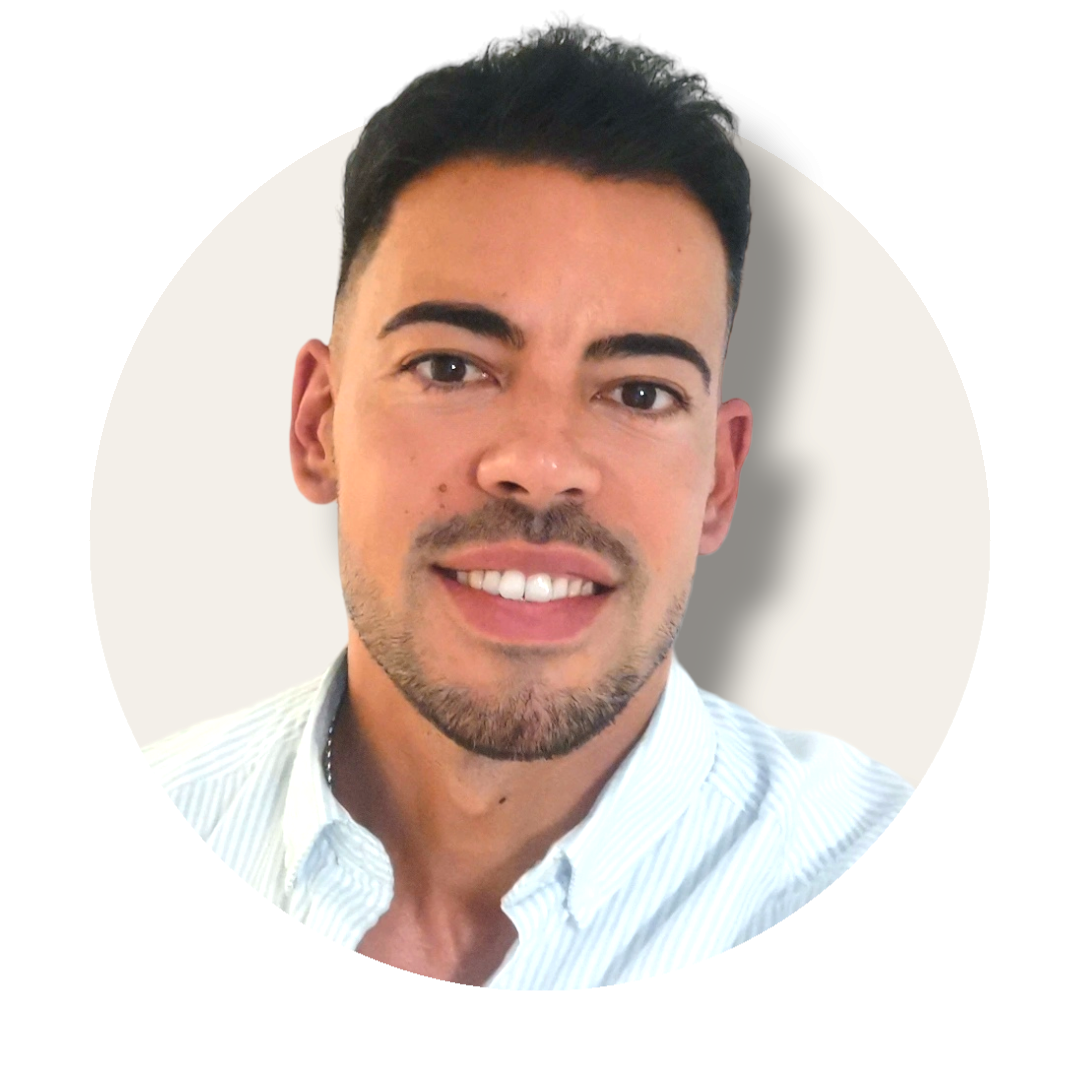
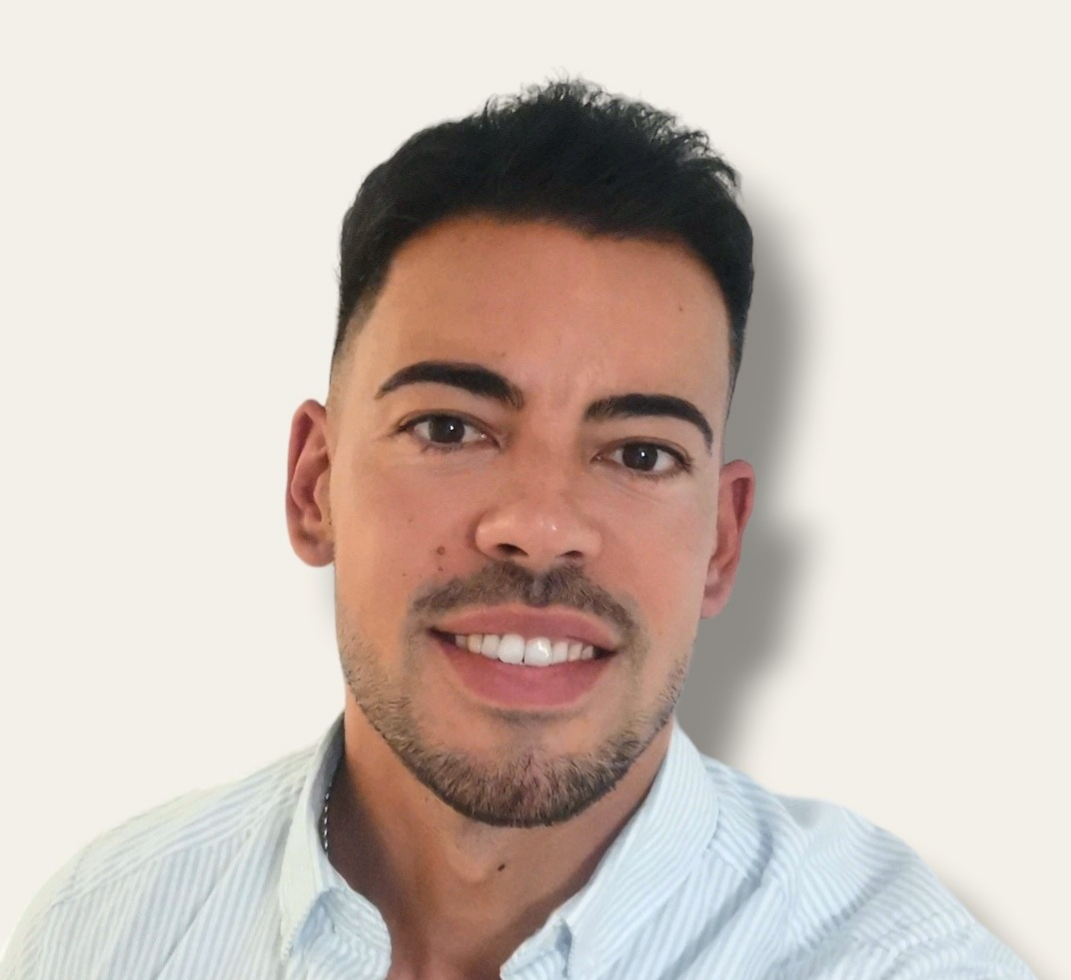
image updated

diff --git a/src/assets/links/links.jsx b/src/assets/links/links.jsx
@@ -29,24 +29,32 @@ export const portfolioLinks = [
         linkCode: 'https://github.com/yebrai/tasteit-client',
         linkDemo: 'https://taste-it-app.netlify.app/',
         description: 'Dynamic e-commerce website facilitating the publication, buying, and selling of diverse products. It includes payment integration, social interaction features for users, and purchase registration'
-    },
+      },
+      {
+        imageSrc: gc,
+        title: "Google Translate Clone",
+        techs: [['Typescript'], ['React'], ['Chat-gpt API'], ['React Testing-library']],
+        linkCode: 'https://github.com/yebrai/google-translate-chatgpt',
+        linkDemo: 'https://yebrai.github.io/google-translate-chatgpt/',
+        description: 'Developed a user-friendly web application for text translation, utilizing the ChatGPT API. Implemented unit tests, custom hooks, and UseReducer for enhanced functionality and state management'
+      },
     {
-        imageSrc: retroscript,
-        title: "Retroscript",
-        techs: [['Typescript']],
-        linkCode: 'https://github.com/yebrai/retroscript',
-        linkDemo: 'https://yebrai.github.io/retroscript/',
-        description: 'Developed game using TypeScript with DOM manipulation and OOP principles. Implemented player movements, skills, and boss stages to enhance user experience'
-
-    },
-    {
-        imageSrc: ourhome,
+      imageSrc: ourhome,
         title: "Our Home",
         techs: [['Javascript'], ['Handlebars'], ['NodeJS'], ['Express'], ['MongoDB']],
         linkCode: 'https://github.com/yebrai/OurHome',
         linkDemo: 'https://ourhome.cyclic.app/',
         description: 'Secure SSR web application for real estate transactions, providing a platform for buying and selling properties. Implemented robust authentication mechanisms with multiple levels of security'
-    },
+      },
+      {
+          imageSrc: retroscript,
+          title: "Retroscript",
+          techs: [['Typescript']],
+          linkCode: 'https://github.com/yebrai/retroscript',
+          linkDemo: 'https://yebrai.github.io/retroscript/',
+          description: 'Developed game using TypeScript with DOM manipulation and OOP principles. Implemented player movements, skills, and boss stages to enhance user experience'
+  
+      },
     {
         imageSrc: infecnation,
         title: "Infecnation",
@@ -55,15 +63,7 @@ export const portfolioLinks = [
         linkDemo: 'https://yebrai.github.io/Infectnation/',
         description: 'Developed optimized 2D game with canvas and JavaScript, featuring captivating intro, animations, movements, and sound effects. Implemented diverse skills and multiple endings to enhance user experience'
     },
-    {
-      imageSrc: gc,
-      title: "Google Translate Clone",
-      techs: [['Typescript'], ['React'], ['Chat-gpt API'], ['React Testing-library']],
-      linkCode: 'https://github.com/yebrai/google-translate-chatgpt',
-      linkDemo: 'https://yebrai.github.io/google-translate-chatgpt/',
-      description: 'Developed a user-friendly web application for text translation, utilizing the ChatGPT API. Implemented unit tests, custom hooks, and UseReducer for enhanced functionality and state management'
-    }/*
-    ,
+    /*
     {
         imageSrc: flappy,
         title: "FlappyBird",

diff --git a/src/components/AppWelcome/Welcome.module.css b/src/components/AppWelcome/Welcome.module.css
@@ -1,6 +1,6 @@
 .avatar {
   width: 250px;
-  height: 250px;
+  height: 230px;
   position: relative;
   box-shadow: var(--shadow-elevation);
   border-radius: 50%;
@@ -96,7 +96,7 @@ align-items: center;
   }
   .avatar {
     width: 170px;
-    height: 170px;
+    height: 155px;
   }
 }
 
@@ -106,7 +106,7 @@ align-items: center;
   }
   .avatar {
     width: 150px;
-    height: 150px;
+    height: 135px;
   }
 
   .position {
